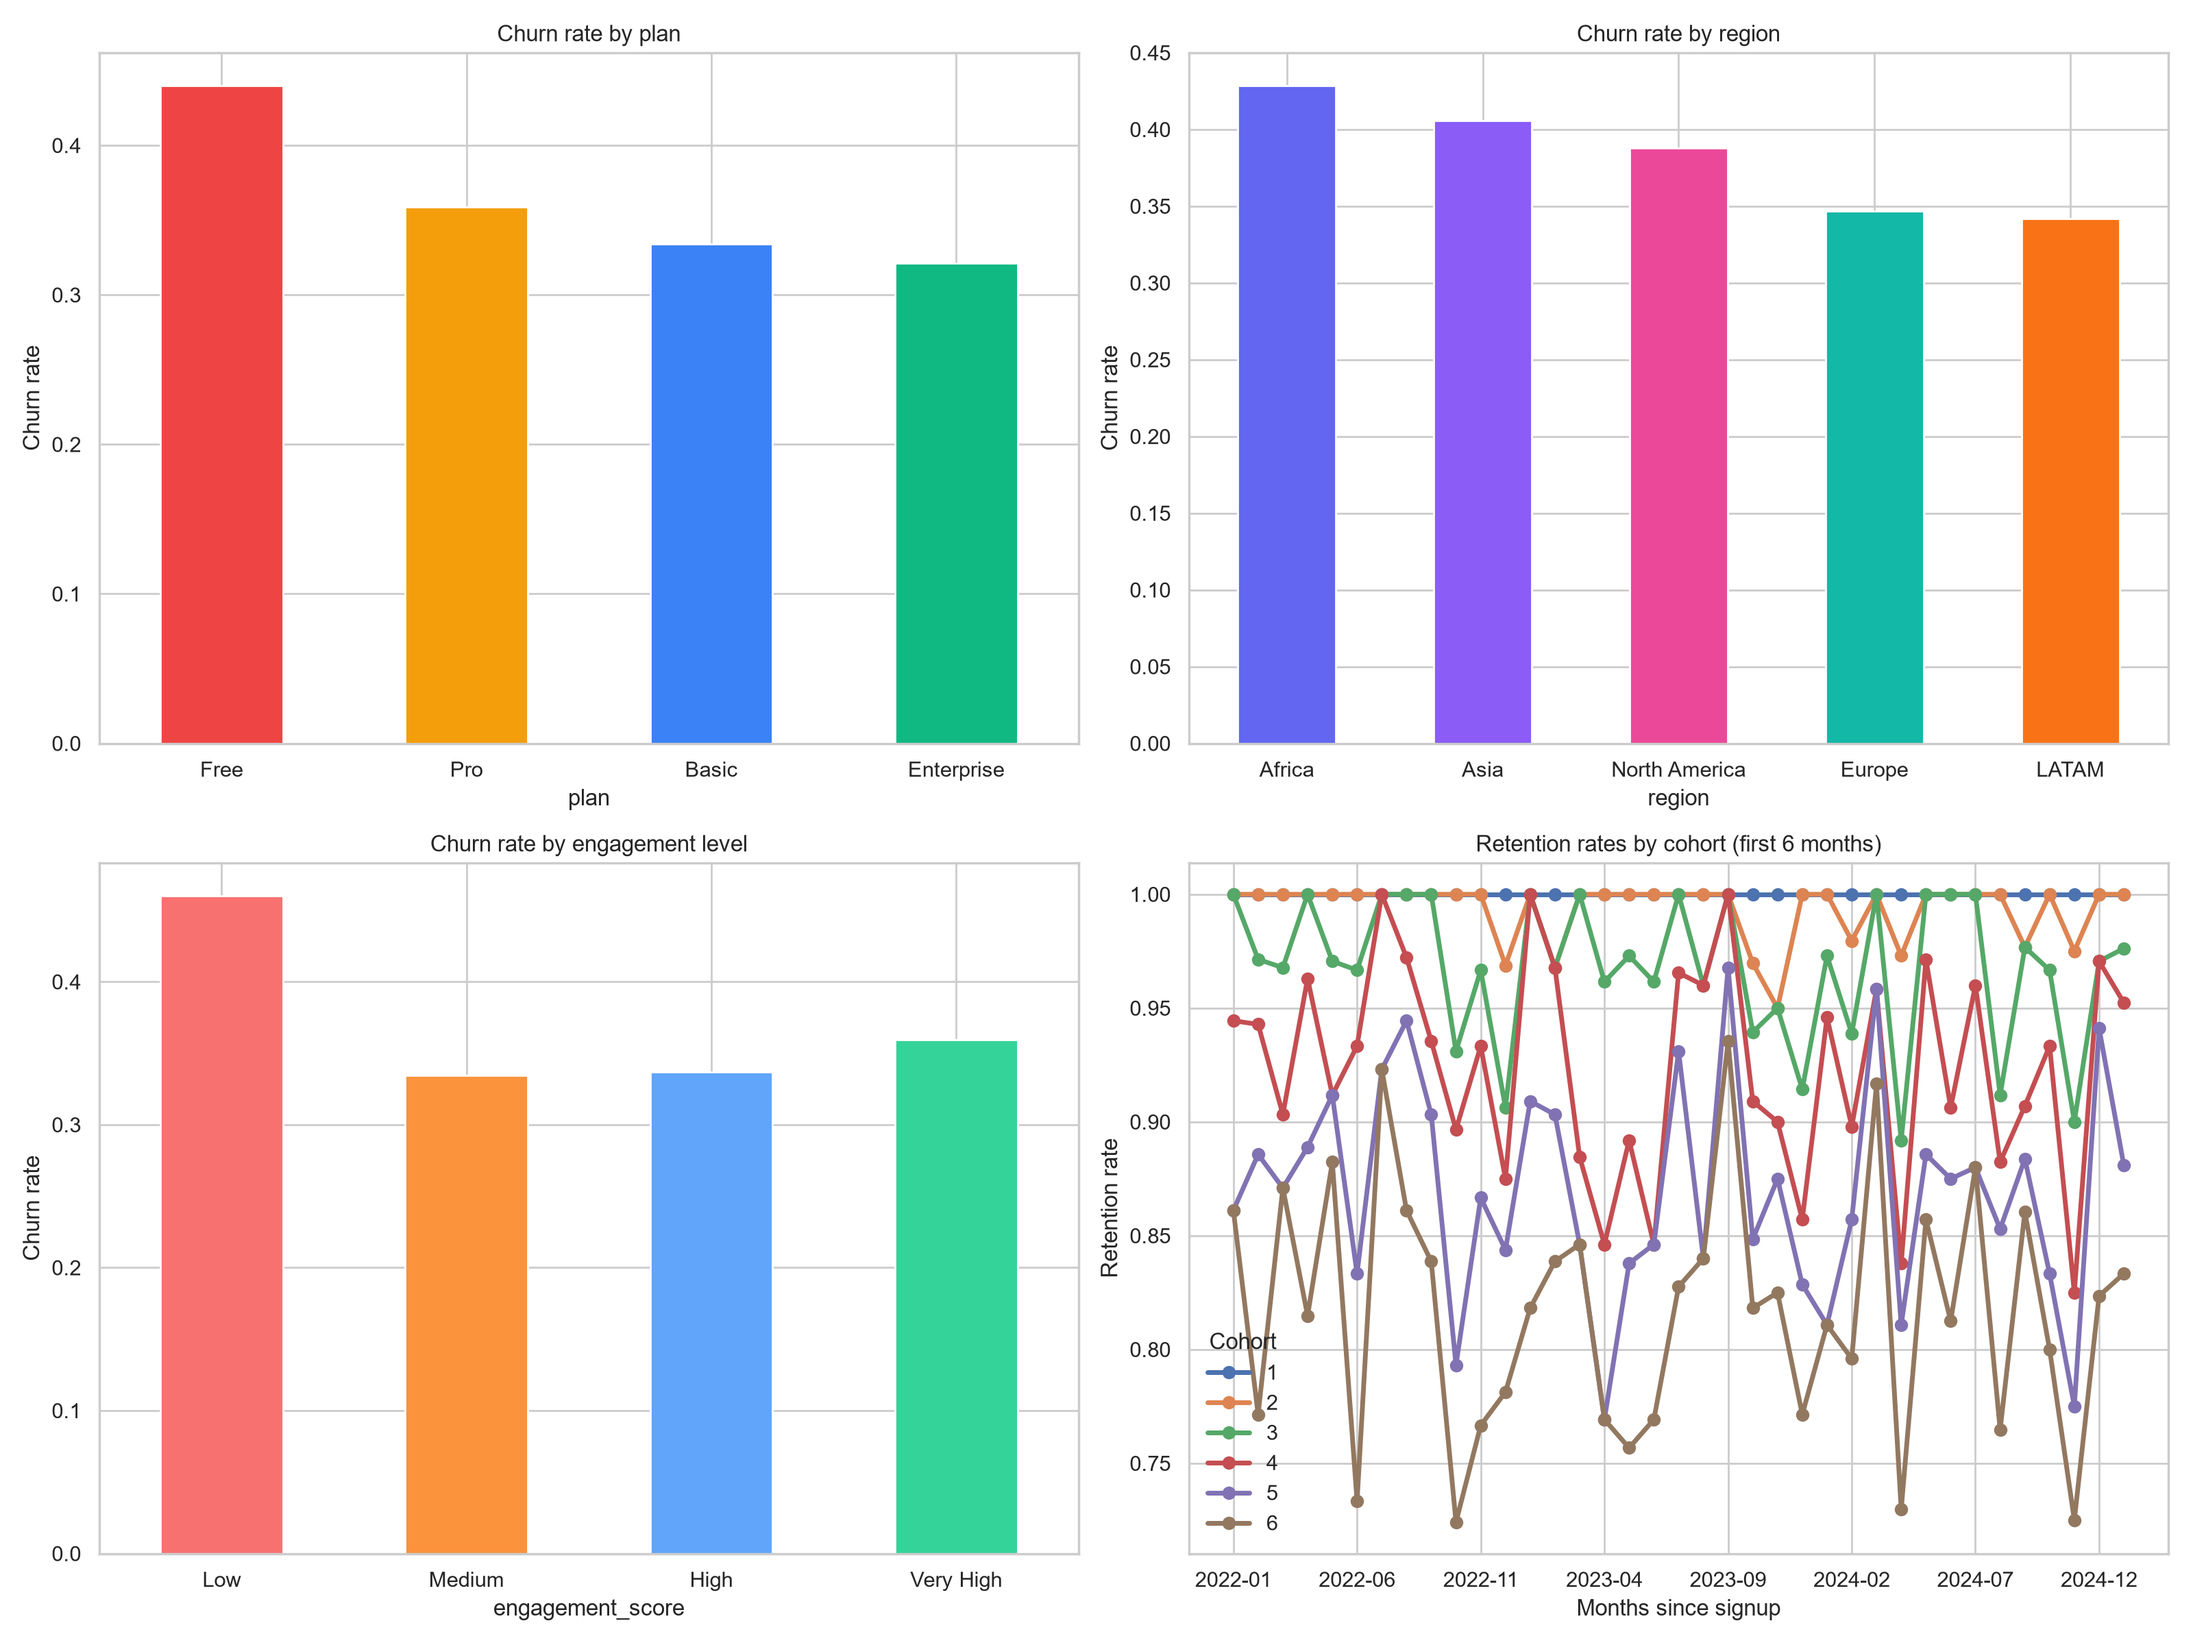
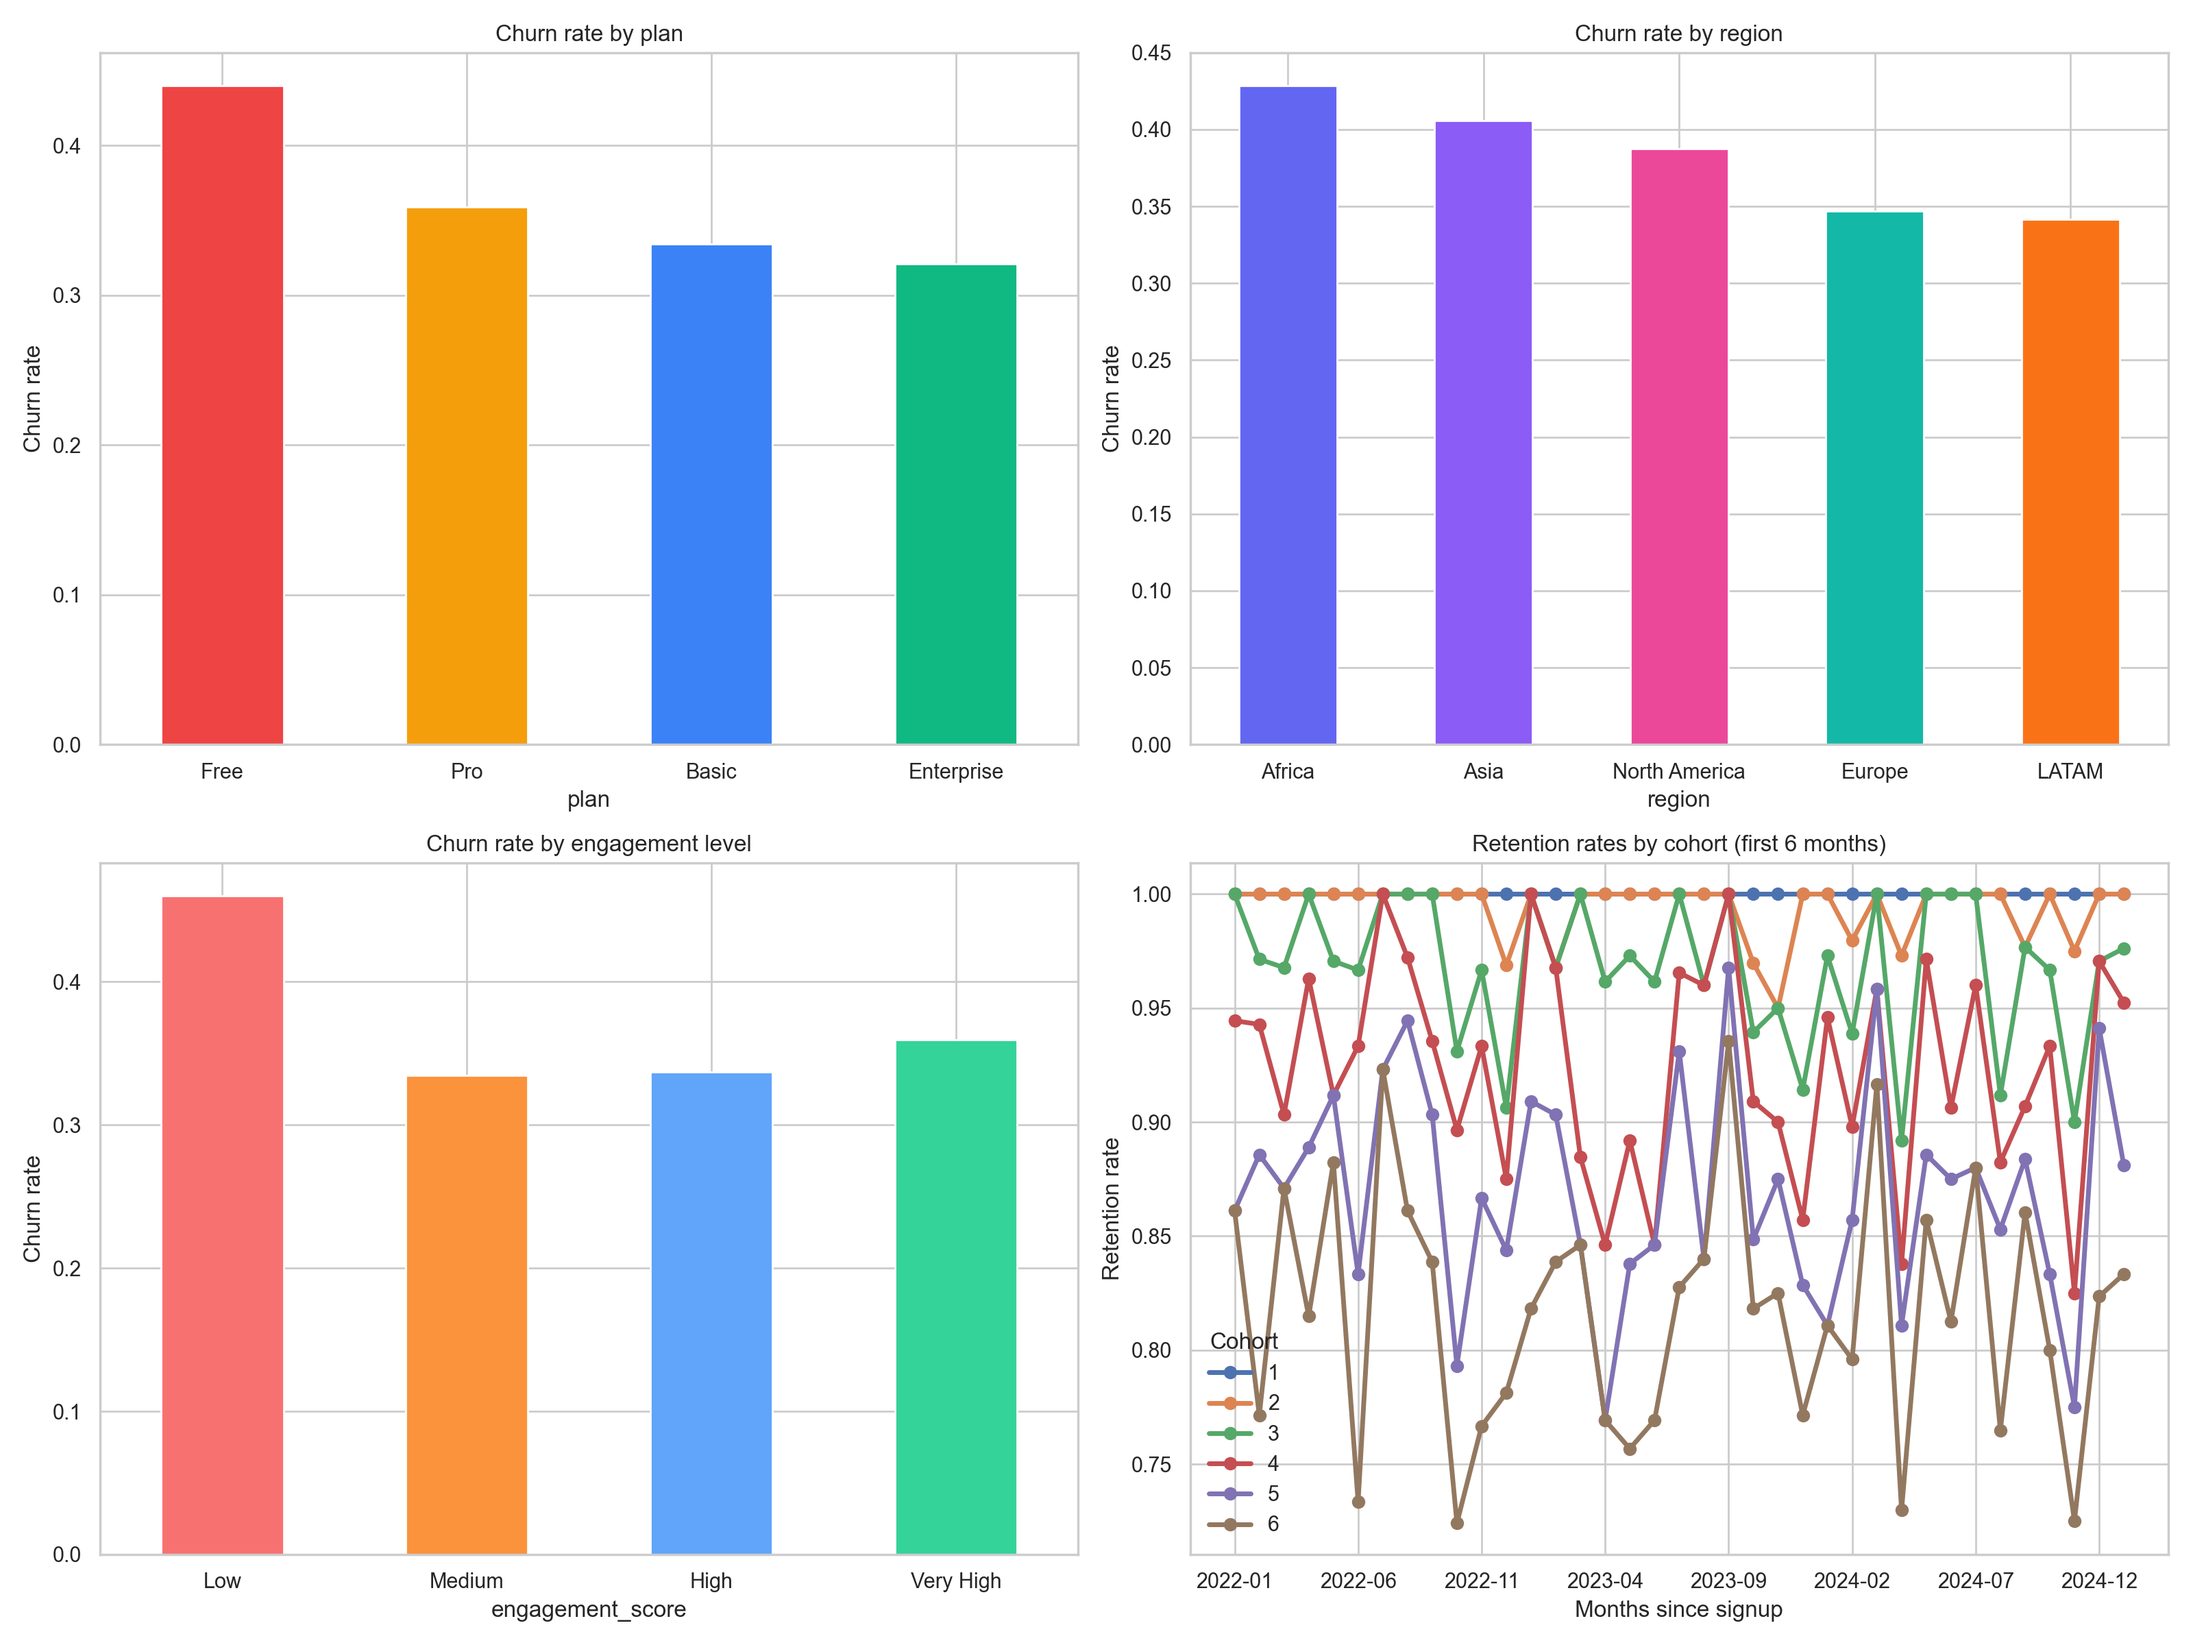
Add Python reproducibility requirements

diff --git a/retention_analysis.py b/retention_analysis.py
@@ -1,0 +1,168 @@
+import os
+import pandas as pd
+import numpy as np
+import matplotlib
+
+matplotlib.use('Agg')
+import matplotlib.pyplot as plt
+import seaborn as sns
+from pathlib import Path
+
+# -----------------------------
+# 1) Create a realistic dataset
+# -----------------------------
+np.random.seed(42)
+
+n = 1200
+
+# Build customer-level dataframe
+customers = pd.DataFrame({
+    'customer_id': [f'CUST{i:04d}' for i in range(1, n + 1)],
+    'signup_date': np.random.choice(pd.date_range('2022-01-01', '2025-01-31', freq='MS'), size=n),
+    'plan': np.random.choice(['Free', 'Basic', 'Pro', 'Enterprise'], size=n, p=[0.35, 0.30, 0.25, 0.10]),
+    'region': np.random.choice(['North America', 'Europe', 'Asia', 'LATAM', 'Africa'], size=n, p=[0.30, 0.25, 0.20, 0.15, 0.10]),
+    'segment': np.random.choice(['Individual', 'SMB', 'Enterprise'], size=n, p=[0.45, 0.35, 0.20]),
+    'monthly_spend': np.round(np.clip(np.random.normal(35, 18, n), 5, 200), 2),
+    'support_tickets': np.random.poisson(1.8, n),
+    'days_active': np.random.randint(30, 650, n),
+    'engagement_score': np.random.randint(20, 100, n),
+    'churned': np.random.choice([0, 1], size=n, p=[0.72, 0.28]),
+})
+
+# Stronger signal for churn by plan/engagement/support
+customers.loc[customers['plan'].eq('Free'), 'churned'] = np.random.choice([0, 1], size=customers['plan'].eq('Free').sum(), p=[0.55, 0.45])
+customers.loc[customers['engagement_score'] < 40, 'churned'] = np.random.choice([0, 1], size=(customers['engagement_score'] < 40).sum(), p=[0.50, 0.50])
+customers.loc[customers['support_tickets'] > 4, 'churned'] = np.random.choice([0, 1], size=(customers['support_tickets'] > 4).sum(), p=[0.45, 0.55])
+customers['churned'] = customers['churned'].astype(int)
+
+# Add tenure and last activity
+customers['tenure_days'] = np.clip(customers['days_active'] + np.random.randint(0, 90, n), 30, 720)
+customers['last_activity_date'] = pd.to_datetime(customers['signup_date']) + pd.to_timedelta(customers['tenure_days'], unit='D')
+customers['signup_month'] = customers['signup_date'].dt.to_period('M').astype(str)
+customers['cohort'] = customers['signup_month']
+
+# Output files
+output_dir = Path('outputs')
+output_dir.mkdir(exist_ok=True)
+customers.to_csv(output_dir / 'customer_churn_data.csv', index=False)
+
+# -----------------------------
+# 2) Cohort analysis
+# -----------------------------
+customers['signup_month'] = pd.to_datetime(customers['signup_month'])
+customers['month_index'] = (customers['signup_month'].dt.year - customers['signup_month'].dt.year.min()) * 12 + (customers['signup_month'].dt.month - customers['signup_month'].dt.month.min())
+
+# Use signup month to create retention by cohort
+cohort_summary = []
+for cohort_month, grp in customers.groupby('signup_month'):
+    cohort_size = len(grp)
+    if cohort_size == 0:
+        continue
+    for month_number in range(1, 7):
+        active = (grp['tenure_days'] >= month_number * 30).sum()
+        retention = active / cohort_size if cohort_size else np.nan
+        cohort_summary.append((cohort_month.strftime('%Y-%m'), month_number, cohort_size, active, retention))
+
+retention_df = pd.DataFrame(cohort_summary, columns=['cohort', 'month_number', 'cohort_size', 'active_customers', 'retention_rate'])
+
+# -----------------------------
+# 3) Metrics
+# -----------------------------
+churn_rate = customers['churned'].mean()
+plan_churn = customers.groupby('plan')['churned'].mean().sort_values(ascending=False)
+region_churn = customers.groupby('region')['churned'].mean().sort_values(ascending=False)
+segment_churn = customers.groupby('segment')['churned'].mean().sort_values(ascending=False)
+engagement_churn = customers.groupby(pd.cut(customers['engagement_score'], bins=[0, 40, 60, 80, 100], labels=['Low','Medium','High','Very High']), observed=False)['churned'].mean()
+
+# -----------------------------
+# 4) Visualizations
+# -----------------------------
+plt.style.use('seaborn-v0_8-whitegrid')
+sns.set_theme(style='whitegrid')
+
+fig, axes = plt.subplots(2, 2, figsize=(16, 12))
+
+# Churn by plan
+plan_churn.plot(kind='bar', ax=axes[0, 0], color=['#ef4444', '#f59e0b', '#3b82f6', '#10b981'])
+axes[0, 0].set_title('Churn rate by plan')
+axes[0, 0].set_ylabel('Churn rate')
+axes[0, 0].tick_params(axis='x', rotation=0)
+
+# Churn by region
+region_churn.plot(kind='bar', ax=axes[0, 1], color=['#6366f1', '#8b5cf6', '#ec4899', '#14b8a6', '#f97316'])
+axes[0, 1].set_title('Churn rate by region')
+axes[0, 1].set_ylabel('Churn rate')
+axes[0, 1].tick_params(axis='x', rotation=0)
+
+# Engagement vs churn
+engagement_churn.plot(kind='bar', ax=axes[1, 0], color=['#f87171', '#fb923c', '#60a5fa', '#34d399'])
+axes[1, 0].set_title('Churn rate by engagement level')
+axes[1, 0].set_ylabel('Churn rate')
+axes[1, 0].tick_params(axis='x', rotation=0)
+
+# Retention by cohort
+pivot = retention_df.pivot(index='cohort', columns='month_number', values='retention_rate').fillna(np.nan)
+if not pivot.empty:
+    pivot.iloc[:, :6].plot(ax=axes[1, 1], marker='o', linewidth=2.5)
+    axes[1, 1].set_title('Retention rates by cohort (first 6 months)')
+    axes[1, 1].set_ylabel('Retention rate')
+    axes[1, 1].set_xlabel('Months since signup')
+    axes[1, 1].legend(title='Cohort', loc='best')
+
+plt.tight_layout()
+plt.savefig(output_dir / 'churn_analysis_dashboard.png', dpi=200)
+plt.close()
+
+# -----------------------------
+# 5) Summary report data
+# -----------------------------
+summary = {
+    'Overall churn rate': round(churn_rate, 3),
+    'Highest churn plan': plan_churn.index[0],
+    'Highest churn region': region_churn.index[0],
+    'Lowest engagement churn': round(engagement_churn.loc['Low'], 3) if 'Low' in engagement_churn.index else np.nan,
+    'Average monthly spend': round(customers['monthly_spend'].mean(), 2),
+    'Average tenure days': round(customers['tenure_days'].mean(), 1),
+    'Average support tickets': round(customers['support_tickets'].mean(), 2),
+}
+
+with open(output_dir / 'summary.txt', 'w', encoding='utf-8') as f:
+    for k, v in summary.items():
+        f.write(f'{k}: {v}\n')
+
+# -----------------------------
+# 6) Build a polished markdown report
+# -----------------------------
+report_lines = []
+report_lines.append('# Customer Retention & Churn Analysis Report')
+report_lines.append('')
+report_lines.append('## Executive Summary')
+report_lines.append('')
+report_lines.append(f'- Overall churn rate is {summary["Overall churn rate"]:.1%}, indicating that roughly one in every {int(round(1/summary["Overall churn rate"] ))} customers leaves the platform.')
+report_lines.append(f'- The highest-churn plan is {summary["Highest churn plan"]}, while the most at-risk region is {summary["Highest churn region"]}.')
+report_lines.append(f'- Customers with low engagement and high support demand are the most likely to churn, suggesting that onboarding quality and product adoption need attention.')
+report_lines.append('')
+report_lines.append('## Key Insights')
+report_lines.append('')
+report_lines.append(f'- Plan-wise churn: {plan_churn.to_string()}')
+report_lines.append(f'- Region-wise churn: {region_churn.to_string()}')
+report_lines.append(f'- Engagement-level churn: {engagement_churn.to_string()}')
+report_lines.append('')
+report_lines.append('## Recommended Actions')
+report_lines.append('')
+report_lines.append('- Improve onboarding for new customers, especially for Free and Basic plan users, to boost activation and early engagement.')
+report_lines.append('- Proactively contact customers with low engagement scores or frequent support tickets before they churn.')
+report_lines.append('- Introduce tiered retention offers and lifecycle campaigns for regions showing above-average churn.')
+report_lines.append('- Track retention monthly by cohort and compare it against support usage, activation milestones, and plan upgrades.')
+report_lines.append('')
+report_lines.append('## Files Produced')
+report_lines.append('')
+report_lines.append('- Data: outputs/customer_churn_data.csv')
+report_lines.append('- Dashboard image: outputs/churn_analysis_dashboard.png')
+report_lines.append('- Summary metrics: outputs/summary.txt')
+report_lines.append('- Report: outputs/retention_report.md')
+
+Path(output_dir / 'retention_report.md').write_text('\n'.join(report_lines), encoding='utf-8')
+
+print('Analysis completed successfully.')
+print('Files created in outputs/')

diff --git a/README.md b/README.md
@@ -9,12 +9,14 @@ This project analyzes customer retention and churn using a synthetic but realist
 - [outputs/summary.txt](outputs/summary.txt)
 - [outputs/retention_report.md](outputs/retention_report.md)
 - [retention_analysis.py](retention_analysis.py)
+- [requirements.txt](requirements.txt)
 
 ## How to Reproduce
-Run the following command from the project folder:
+Install the Python dependencies, then run the analysis script from the project folder:
 
 ```powershell
-& "C:\Users\Admin\AppData\Local\Programs\Python\Python313\python.exe" "retention_analysis.py"
+pip install -r requirements.txt
+python retention_analysis.py
 ```
 
 ## Key Findings
